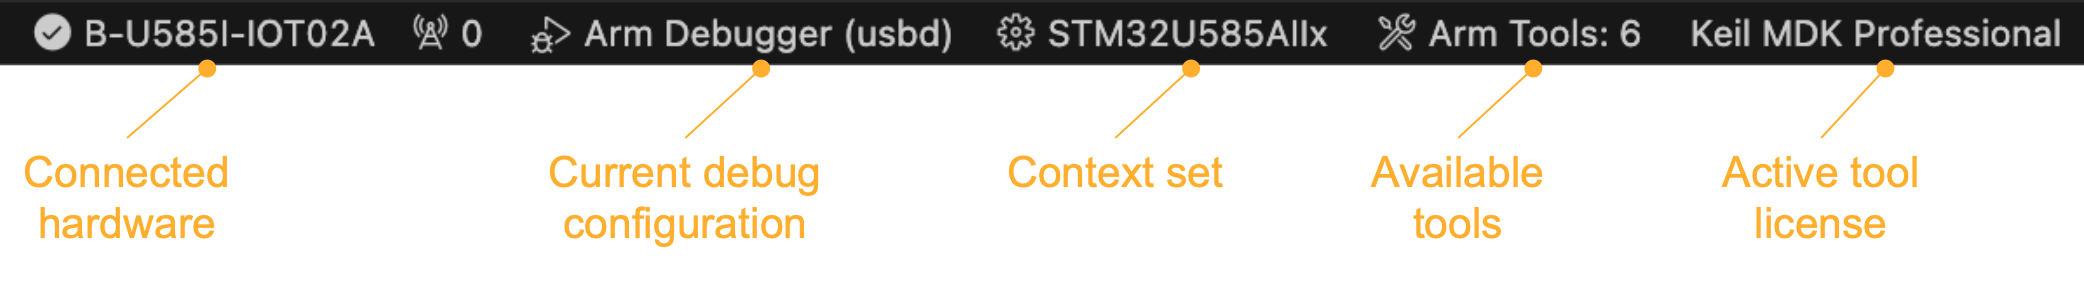
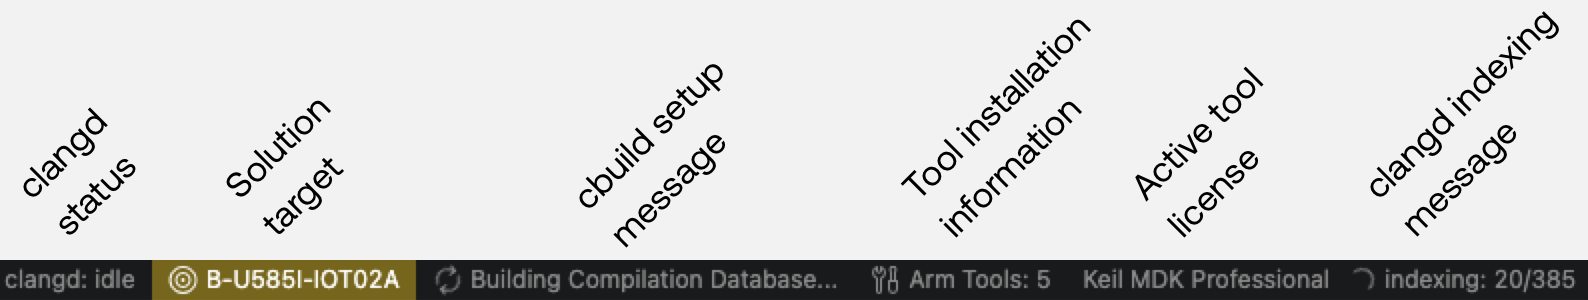
Updates for 1.68 and 1.70 (#44)
* Updates for 1.68 and 1.70

* Updates after review

* Status bar updates

* Added clangd indexing

* Renamed message

diff --git a/docs/debug.md b/docs/debug.md
@@ -21,21 +21,73 @@ The **Run and Debug** view provides:
 - [**CALL STACK**](#call-stack) section that shows active RTOS threads along with the call stack.
 - [**BREAKPOINTS**](#breakpoints) section for managing stop points in application execution to inspect the state.
 
-> **TIP**<br>
+> &#128204; **TIP**
+>
 > Click on a _line number badge_ to navigate to the source code line.
 
 Other debugger specific views or features:
 
+- [**CPU Time**](#cpu-time) shows execution timing and statistics of the past five breakpoints.
 - [**Live Watch**](#trace-and-live-view) offers run-time viewing of user-defined expressions, for example, variable
   values.
+- [**Component Viewer**](#component-viewer) shows detailed information to help analyze the operation of software
+  components.
+- [**Core Peripherals**](#core-peripherals) view gives insight into the programming of CPU specific core peripherals.
+- [**Peripherals**](#peripherals) show the device peripheral registers and allow changing their values.
+- [**Memory Inspector**](#memory-inspector) provides a powerful and configurable memory viewer.
 - [**Disassembly**](#disassembly) shows assembly instructions and supports run control, for example with stepping and
   breakpoints.
 - [**Debug Console**](#debug-console) lists debug output messages and allows entering expressions or GDB commands.
-- [**Peripherals**](#peripherals) show the device peripheral registers and allow changing their values.
 - [**Serial Monitor**](#serial-monitor) uses serial or TCP communication to interact with application I/O functions
   (`printf`, `getc`, etc.).
-- [**CPU Time**](#cpu-time) shows execution timing and statistics of the past five breakpoints.
 - [**Multi-Core Debug**](#multi-core-debug) to view and control several processors in a device.
+
+### Target interaction while running
+
+Depending on the debug view and the debug probe used, target interaction with a Cortex-M CPU may or may not possible
+while running. The following table shows target interaction capabilities while running (with J-Link GDB server or using
+pyOCD):
+
+| View | Read | Edit |
+|------|------|------|
+| [**Memory Inspector**](#memory-inspector) | &#9989;  | &#9989;  |
+| [**Peripherals**](#peripherals)           | &#9989;  | &#9989;  |
+| [**Live Watch**](#trace-and-live-view)    | &#9989;  | &#10060; |
+| [**Component Viewer**](#component-viewer) | &#9989;  | &#10060; |
+| [**Core Peripherals**](#core-peripherals) | &#9989;  | &#10060; |
+| [**VARIABLES**](#variables)               | &#10060; | &#10060; |
+| [**WATCH**](#watch)                       | &#10060; | &#10060; |
+| [**CALL STACK**](#call-stack)             | &#10060; | &#10060; |
+
+### Number formats
+
+Expressions can be represented in different number formats. The debuggers default format is `natural`. If you wish to
+change the radix, there are multiple ways to do so:
+
+- To change it globally, right-click for example in an editor window and select **Set Global Output Radix to ...**.
+  This allows you to switch the global radix between `decimal` and `hexadecimal`.
+- To change the radix of a single expression, you can edit it for example in the
+  [**Live Watch**](#trace-and-live-view) or [**WATCH**](#watch) view. Then, add a "`,`"
+  to the expression, directly followed by one of these format specifiers (make sure no space is between the `,` and the
+  format specifier):
+
+| Specifier | Format |
+|-----------|--------|
+| `x` | `hexadecimal` |
+| `d` | `decimal` |
+| `o` | `octal` |
+| `t` or `b` | `binary` |
+| `z` | `zero-hexadecimal` (includes leading zeros) |
+
+- You can also use this syntax in the [**DEBUG CONSOLE**](#debug-console).
+
+#### Examples
+
+```txt
+counter,d
+value,o
+number,t
+```
 
 ### Debug toolbar
 
@@ -106,7 +158,7 @@ For more control of breakpoints, use the **BREAKPOINTS** section that lists and 
 
 ![BREAKPOINTS section](./images/cmsis-debugger/breakpoints-section.png)
 
-> 📝 **Note:**
+> &#128221; **Note:**
 >
 > You can set breakpoints anytime during your debug session. However, when setting a breakpoint while running an
 > application, the target stops for a short period of time.
@@ -135,8 +187,8 @@ To add a conditional breakpoint:
 
 - Create a conditional breakpoint
 
-  - Right-click in the editor margin and select Add Conditional Breakpoint.
-  - Use the Add Conditional Breakpoint command in the Command Palette (⇧⌘P).
+    - Right-click in the editor margin and select Add Conditional Breakpoint.
+    - Use the Add Conditional Breakpoint command in the Command Palette (⇧⌘P).
 
 - Choose the type of condition you want to set (expression, hit count, or wait for a breakpoint).
 
@@ -146,12 +198,12 @@ To add a condition to an existing breakpoint:
 
 - Edit an existing breakpoint
 
-  - Right-click on the breakpoint in the editor margin and select Edit Breakpoint.
-  - Select the pencil icon next for an existing breakpoint in the **BREAKPOINTS section** of the **Run and Debug view**.
+    - Right-click on the breakpoint in the editor margin and select Edit Breakpoint.
+    - Select the pencil icon next for an existing breakpoint in the **BREAKPOINTS section** of the **Run and Debug view**.
 
 - Edit the condition (expression, hit count, or wait for breakpoint).
 
-> 📝 **Note:**
+> &#128221; **Note:**
 >
 > For checking the the breakpoint condition, the target is halted for a short period of time.
 
@@ -164,7 +216,7 @@ breakpoint is shown (Write/Read/Access).
 
 ![Creating a data breakpoint](./images/cmsis-debugger/data-breakpoints.gif)
 
-> 📝 **Note:**
+> &#128221; **Note:**
 >
 > When hitting a data breakpoint, the program execution does not stop exactly on that line of code. Depending on the
 > underlying CPU architecture, stopping can be delayed by up to 5 cycles. Use the
@@ -231,10 +283,16 @@ Most Arm Cortex-M processors (except Cortex-M0/M0+/M23) include a `DWT->CYCCNT` 
 
 The **Trace and Live View**
 ![Trace and Live view](./images/cmsis-debugger/TraceLiveView.png)
-(available from the VS Code Activity Bar) currently shows the **LIVE WATCH**. You can add expressions to this view that
-are updated while the application is running on your target.
+(available from the VS Code Activity Bar) currently contains the [**LIVE WATCH**](#live-watch), the
+[**COMPONENT VIEWER**](#component-viewer), and the [**CORE PERIPHERALS**](#core-peripherals) views.
 
-You can add expressions to the **LIVE WATCH** by:
+The CMSIS Debugger stores dynamic view state per debug configuration in the `vscode-cmsis-debugger.viewState` VS Code workspace setting. The stored state includes view-specific configurations, e.g. the last filter text and periodic update options for the [**COMPONENT VIEWER**](#component-viewer), and the `enabled`/`disabled` state of the [CPU Time](#cpu-time) display.
+
+When you start the same debug configuration again, its previous state is restored automatically. To clear the stored state, run the **CMSIS Debugger: Reset All Dynamic View States** command from the Command Palette.
+
+#### LIVE WATCH
+
+You can add expressions to this view that are updated while the application is running on your target by:
 
 1. Pressing the `+` sign and entering an expression.
 2. Using the context menu item **Add to Live Watch** in the editor or the the **Run and Debug** view.
@@ -243,18 +301,47 @@ You can add expressions to the **LIVE WATCH** by:
 
 #### COMPONENT VIEWER
 
-This view shows detailed information and helps to analyze the operation of software components. The required
+This view shows detailed information to help analyze the operation of software components. The required
 infrastructure can be easily added to user applications.
 
 Refer to the [Component Viewer documentation](https://arm-software.github.io/CMSIS-View/latest/cmp_viewer.html) for
-detailed advice on how to show information from user software using using an SCVD file.
+detailed advice on how to show information from user software using an SCVD file.
 
 The Component Viewer shows information about:
 
 - Information from software components that is provided in memory for example by static variables or structures.
-- Objects that are addressed by an object handles or dynamic arrays.
+- Objects that are addressed by handles or dynamic arrays.
 
 ![Showing software component properties in the COMPONENT VIEWER](./images/cmsis-debugger/component-viewer.png)
+
+The **Component Viewer toolbar** offers the following action buttons:
+
+![Component Viewer Buttons](./images/cmsis-debugger/comp-viewer-buttons.png)
+
+| Button | Description |
+|--------|-------------|
+| Filter | Filter the displayed components and their entries |
+| Clear Filter | Remove component filtering |
+| Disable Periodic Update | Components are not updated while the target is running |
+| Expand All | Show all components at once |
+| Collapse All | Only show  top-level component name |
+
+The **Disable Periodic Update** button stops updates for all components. If you wish to lock a single component, use
+the component's ![Lock Component Display](./images/cmsis-debugger/comp-view-lock-comp.png) button to disable periodic updates.
+
+#### CORE PERIPHERALS
+
+The **CORE PERIPHERALS** view gives insight into the programming of CPU specific core peripherals.
+
+The Core Peripherals view shows information about the following components if implemented by the CPU:
+
+- Memory Protection Unit
+- Nested Vectored Interrupt Controller
+- System Config and Control
+- System Tick Timer
+- Fault Reports
+
+![Showing core peripheral contents in the COMPONENT PERIPHERALS view](./images/cmsis-debugger/core-peripherals.png)
 
 ### PERIPHERALS
 
@@ -291,19 +378,19 @@ The command **Open Disassembly View** (available from [command palette](https://
 
 ![Disassembly View](./images/cmsis-debugger/disassembly-view.png)
 
-> 📝 **Note:**
+> &#128221; **Note:**
 >
 > - Enable the [VS Code setting](https://code.visualstudio.com/docs/configure/settings) **Features > Debug > Disassembly View: Show Source Code** to show assembler instructions interleaved with source code.
 
 ### RTOS Views
 
 For RTOS awareness, the [RTOS Views](https://marketplace.visualstudio.com/items?itemName=mcu-debug.rtos-views)
-extension needs to be added to CS Code. This extension supports a wide range of real-time operating systems, such as
+extension needs to be added to VS Code. This extension supports a wide range of real-time operating systems, such as
 FreeRTOS, Zephyr, embOS,and Keil RTX5.
 
 ![RTOS Views with FreeRTOS](./images/cmsis-debugger/rtos-views.png)
 
-> 📝 **Note:**
+> &#128221; **Note:**
 >
 > - This is not a live view. It only gets updated when the program execution is stopped.
 > - To enable the view, you need to go to the debug view and press Ctrl/Cmd - Shift - P. Select

diff --git a/docs/userinterface.md b/docs/userinterface.md
@@ -38,7 +38,23 @@ information. The main area of the **CMSIS** view shows:
 - **Layer Type** (if available): The software layers in the project with their source files, preconfigured software
   components, and configuration files
 
+### No solution loaded
+
+If no CMSIS solution is active in VS Code, the view shows the following:
+
+![CMSIS view without a solution loaded](./images/cmsis-view-no-solution.png)
+
+This allows you to:
+
+- [Create a solution](./create_app.md#work-with-cmsis-solutions) from scratch.
+- [Convert a µVision project](./importuv.md) to a CMSIS solution.
+- [Browse Arm Examples](https://github.com/Arm-Examples) that show the usage of Arm technology on various platforms.
+
+The links below the buttons take you to the documentation and the overview of the VS Code extension.
+
 ### Actions available through the **CMSIS** view
+
+Once a CMSIS solution is loaded, the following action buttons are available:
 
 | Action | Description |
 |:------:|:------------|
@@ -121,7 +137,6 @@ If editor diagnostics or completion do not match a successful build:
   Command Palette. If the problem persists, reload the VS Code window to
   regenerate `.clangd` and restart the extensions.
 
-
 ### Configuration Wizard
 
 [Configuration Wizard annotations](https://open-cmsis-pack.github.io/Open-CMSIS-Pack-Spec/main/html/configWizard.html)
@@ -138,19 +153,18 @@ The view will be opened next to the original source file. You can switch back pr
 
 ## Status bar
 
-The VS Code status bar displays information about the status of your development environment and the project.
+The VS Code status bar displays information about the status of your development environment and the project:
 
-- Status message of the clangd extension that provides smart features.
+![Status bar](./images/status-bar.png)
 
-- You can inspect errors and warnings for the active csolution project when you move the cursor over the **Target Set** in the
-  status bar. The indicator is red for errors and yellow for warnings. Click the indicator to open the
-  **Output - CMSIS Solution** [panel](https://code.visualstudio.com/api/ux-guidelines/panel) and the [**Manage Solution**](./manage_settings.md) view.<br/>
-  ![Target Set errors and warnings](./images/target-set-popup.png "Target Set")
-
-- The [**Arm Tools Environment Manager**](https://marketplace.visualstudio.com/items?itemName=Arm.environment-manager) extension downloads, installs, and manages software development tools. Move your mouse over **Arm Tools** to review the current list of installed tools. Click **Arm Tools** to get more options.<br/>
-  ![Arm Tools](./images/arm-tools.png "Arm Tools")
-
-- If you are using licensed Arm tools, the **active license** displays. Click the active license to manage it.
+| Status bar item | Description |
+|-----------------|-------------|
+| clangd status   | Displays the status message of the **[clangd](#configure-intellisense-with-clangd)** extension that provides IntelliSense. |
+| Solution target |You can inspect errors and warnings for the active csolution project when you move the cursor over the **Solution target** in the status bar. The indicator is red for errors and yellow for warnings. Click the indicator to open the **Output - CMSIS Solution** [panel](https://code.visualstudio.com/api/ux-guidelines/panel) and the [**Manage Solution**](./manage_settings.md) view. |
+| cbuild setup message | **Building compilation database...** displays while the `compile_commands.json` file is created (during [cbuild setup](https://open-cmsis-pack.github.io/cmsis-toolbox/ReferenceApplications/#step-2-run-cbuild-setup)). |
+| Tool installation information | The [**Arm Tools Environment Manager**](https://marketplace.visualstudio.com/items?itemName=Arm.environment-manager) extension downloads, installs, and manages software development tools. Move your mouse over **Arm Tools** to review the current list of installed tools. Click on **Arm Tools** to get more options. |
+| Active tool license | If you are using licensed Arm tools, the **active license** displays. Click it to [manage](./installation.md#activating-keil-studio) the active license. |
+| clangd indexing message | Shows the clangd indexing progress once a C, C++, or header file is opened in the editor. |
 
 ## Run and Debug view
 

diff --git a/docs/create_app.md b/docs/create_app.md
@@ -353,20 +353,28 @@ Click on either icon: ![Manage software packs](./images/manage-packs.png) to ope
 
 In the **Current References** section, you can:
 
-- Set the specific
-  [version](https://open-cmsis-pack.github.io/Open-CMSIS-Pack-Spec/main/html/pdsc_package_pg.html#VersionType) for a
-  pack to be used on the csolution/cproject/clayer level. Use these version specifiers:
-    - `Unspecified`: use the latest installed version of a pack and the `cbuild-pack.yml` for locked versions.
-    - `@`: exact version
-    - `@>=`: equal or higher
-    - `@^`: equal or higher with same major version
-    - `@~`: Equal or higher with same major *and* minor version
+- Set the specific [version](https://open-cmsis-pack.github.io/Open-CMSIS-Pack-Spec/main/html/pdsc_package_pg.html#VersionType)
+for a pack to be used on the csolution/cproject/clayer level using these version specifiers:
+
+| Specifier | Description |
+|:---------:|-------------|
+| `Unspecified` | use the latest installed version of a pack and the `cbuild-pack.yml` for locked versions. |
+| `@` | exact version |
+| `@>=` | equal or higher |
+| `@^` | equal or higher with same major version |
+| `@~` | Equal or higher with same major *and* minor version |
+
 - Add a pack to a csolution/cproject/clayer.
 
 Below that, the *used pack* version is shown. It is computed from the requirements above.
 
-In the **Update Pack** section, you can see the latest installed version and check for updates. The button on the left
-is enabled when there is a more recent version of a pack installed, but the `cbuild-pack.yml` locks it to a
-smaller version. When pressing the button, the `cbuild-pack.yml` entry will be removed on save and the latest installed
-pack version will be set and used. The button to the right opens the version page of a public pack on
-[keil.arm.com](https://www.keil.arm.com/packs) which then also shows you the latest available pack version.
+In the **Update Pack** section, you can manage the pack version:
+
+| Button | Description |
+|--------|-------------|
+| ![Remove pack version lock](./images/pack-remove-lock.png) | **Enabled** if there is a more recent version of a pack installed, but it is locked to a smaller version. When pressing the button, the `cbuild-pack.yml` entry will be removed on save and the latest installed pack version will be set and used. **Disabled** if the latest pack version is used. |
+| ![Update pack version information](./images/pack-update-info.png) | Open the version history page of a [public pack](https://www.keil.arm.com/packs). |
+
+!!! Note
+    The pack lock file does not take effect if an "exact" version (for example `@1.3.0`) is specified. In this case,
+    the version number needs to be edited explicitly.

diff --git a/docs/featureroadmap.md b/docs/featureroadmap.md
@@ -68,14 +68,14 @@
 
 ### Register and memory inspection
 
-| Category                                                   | Debug Features                     |
-| ---------------------------------------------------------- | ---------------------------------- |
-| &#128994; [Core registers](./debug.md#variables)           | R0–R15, PSR, MSP, PSP, CONTROL     |
-| &#128993; Core peripheral registers                        | NVIC, SysTick, MPU                 |
-| &#128994; [Peripheral registers](./debug.md#peripherals)   | CMSIS-SVD decoded peripheral views |
-| &#128994; [Memory inspection](./debug.md#memory-inspector) | Configurable memory views          |
-| &#128994; [Memory inspection](./debug.md#memory-inspector) | Memory access breakpoints          |
-| &#128994; [Memory inspection](./debug.md#memory-inspector) | Memory window live update          |
+| Category                                                           | Debug Features                     |
+| ------------------------------------------------------------------ | ---------------------------------- |
+| &#128994; [Core registers](./debug.md#variables)                   | R0–R15, PSR, MSP, PSP, CONTROL     |
+| &#128994; [Core peripheral registers](./debug.md#core-peripherals) | NVIC, SysTick, MPU                 |
+| &#128994; [Peripheral registers](./debug.md#peripherals)           | CMSIS-SVD decoded peripheral views |
+| &#128994; [Memory inspection](./debug.md#memory-inspector)         | Configurable memory views          |
+| &#128994; [Memory inspection](./debug.md#memory-inspector)         | Memory access breakpoints          |
+| &#128994; [Memory inspection](./debug.md#memory-inspector)         | Memory window live update          |
 
 ### Source-level debugging
 
@@ -137,7 +137,7 @@
 | Category                                            | Debug Features                      |
 | --------------------------------------------------- | ----------------------------------- |
 | &#128994; [Fast models (FVPs)](./debug.md#arm-fvps) | Instruction-accurate CPU simulation |
-| &#128993; Debug FVPs                                | Debugging on FVPs                   |
+| &#128994; Debug FVPs                                | Debugging on FVPs                   |
 
 !!! Note
     FVP simulation models are not available in the MDK-Essential edition.

diff --git a/docs/index.md b/docs/index.md
@@ -46,6 +46,7 @@ The IDE:
 
 Version            | Description
 :------------------|:-------------------------
+1.70.0             | Updates for v1.68.0. and v1.70.0
 1.66.0             | Added **Software pack**, **Related Documentation**, and **Features and roadmap** chapters
 1.64.0             | Added **Work with Zephyr applications** and reworked other chapters
 1.62.0             | Reworked **Manage solutions** and **Debug** chapters
